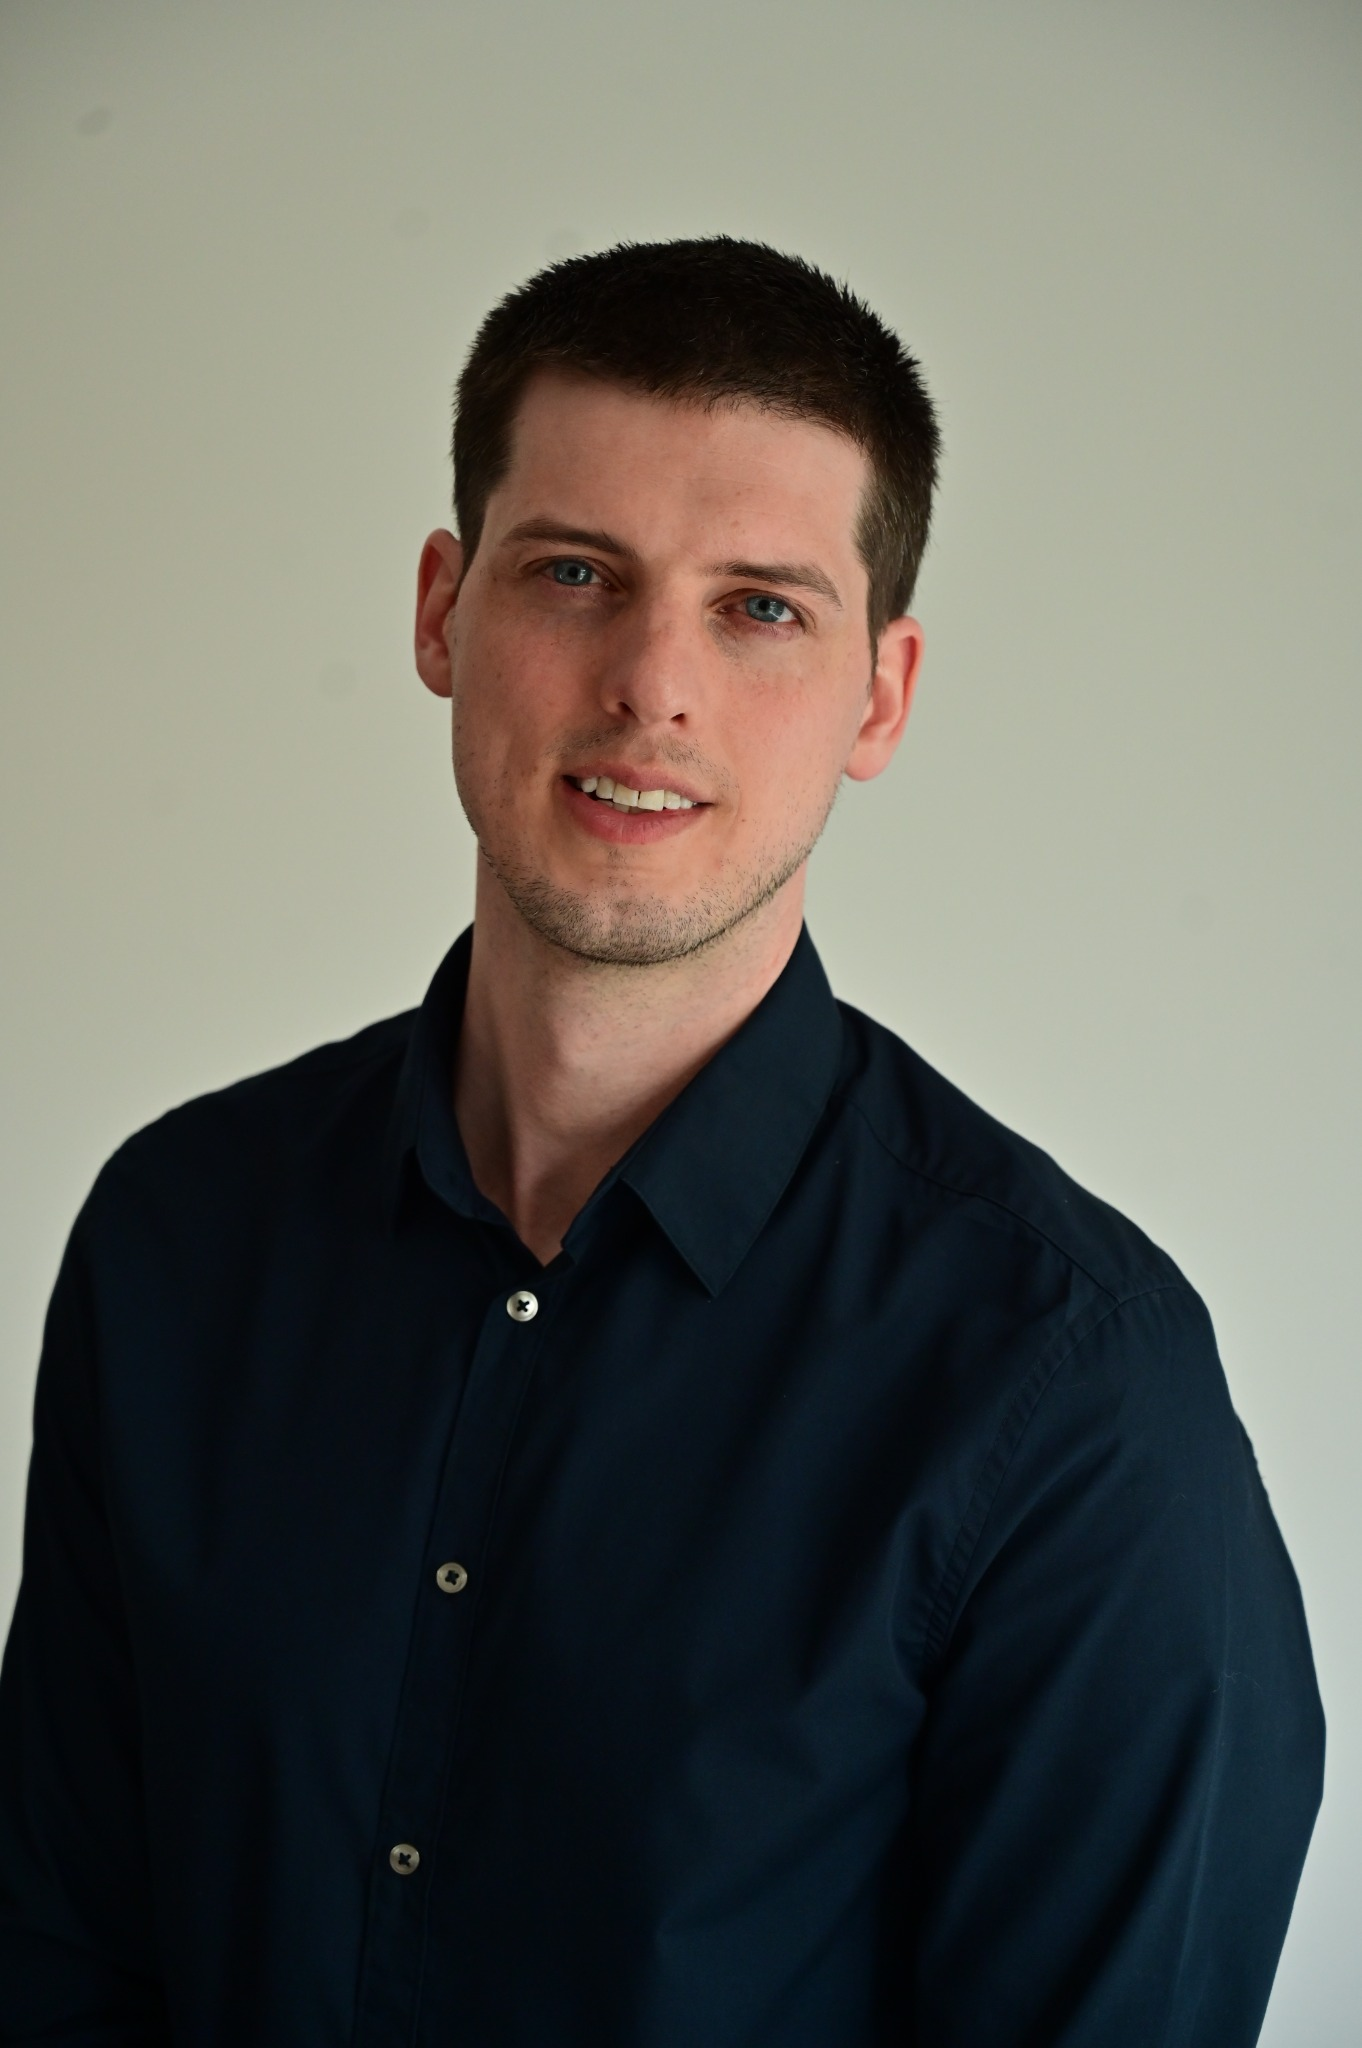
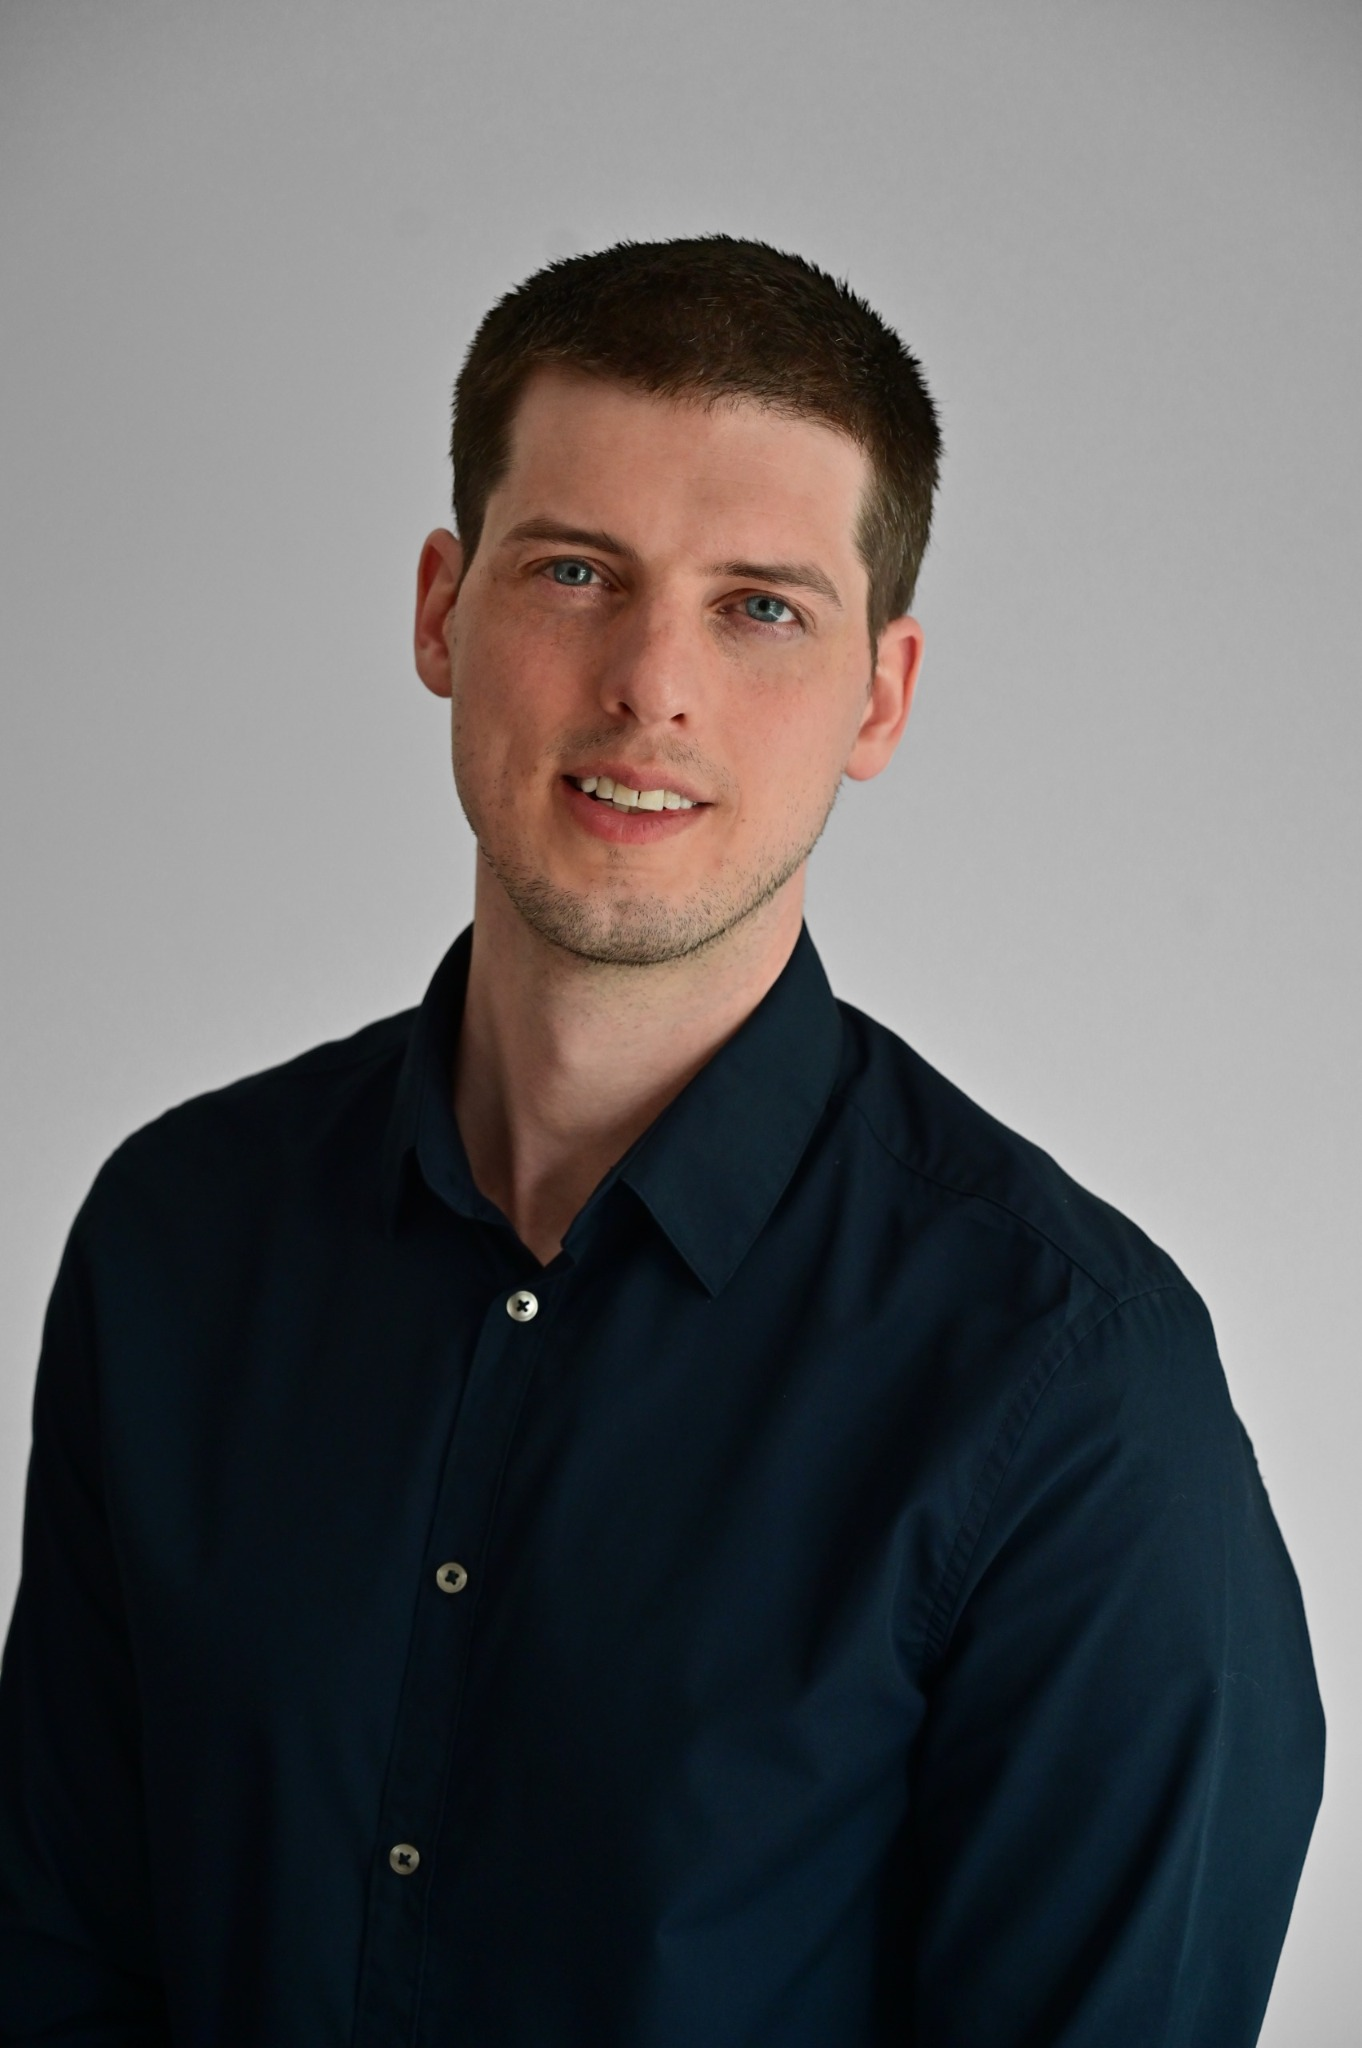
Update

diff --git a/credits.html b/credits.html
@@ -66,7 +66,7 @@
 <strong>Image:</strong> Portrait of Victor J. H. Trees.
         </p>
 <p>
-<strong>Credit:</strong> photo by Denis Trees.
+<strong>Credit:</strong> photo by Denis Trees, edited by Karel de Wit.
         </p>
 </article>
 </section><section class="section credit-section"><div class="section-header"><h2>Story figures</h2></div><article class="card credit-card"><h3>Rainbow formation diagram</h3><p><strong>Image:</strong> Adapted rainbow-formation diagram in spherical water droplets.</p><p><strong>Credit:</strong> Universal Images Group North America LLC / Alamy Stock Photo. Image ID: BCE761.</p><p><strong>Source:</strong> Alamy licensed image: A rainbow forms when sunlight is refracted by spherical water droplets in the atmosphere, producing the primary arcs of colour.</p><p><strong>Licence:</strong> Adapted and used under license from Alamy.</p><p><strong>Used for:</strong> Story page “Are there rainbows on other planets?”.</p></article></section>

diff --git a/nl/credits.html b/nl/credits.html
@@ -66,7 +66,7 @@
 <strong>Afbeelding:</strong> Portret van Victor J. H. Trees.
         </p>
 <p>
-<strong>Credit:</strong> foto door Denis Trees.
+<strong>Credit:</strong> foto door Denis Trees, bewerkt door Karel de Wit.
         </p>
 </article>
 </section><section class="section credit-section"><div class="section-header"><h2>Figuren bij verhalen</h2></div><article class="card credit-card"><h3>Schema van regenboogvorming</h3><p><strong>Afbeelding:</strong> Aangepast schema van regenboogvorming in bolvormige waterdruppels.</p><p><strong>Credit:</strong> Universal Images Group North America LLC / Alamy Stock Photo. Image ID: BCE761.</p><p><strong>Bron:</strong> Gelicenseerde afbeelding via Alamy: A rainbow forms when sunlight is refracted by spherical water droplets in the atmosphere, producing the primary arcs of colour.</p><p><strong>Licentie:</strong> Aangepast en gebruikt onder licentie van Alamy.</p><p><strong>Gebruikt voor:</strong> Verhaal “Zijn er regenbogen op andere planeten?”.</p></article></section>

diff --git a/nl/index.html b/nl/index.html
@@ -30,7 +30,7 @@
 <section class="hero">
 <div>
 <p class="date"> Atmosfeer- en planeetwetenschapper · ontwikkelaar van MONKI </p>
-<h1>Dr Victor J. H. Trees</h1>
+<h1>Dr. Victor J. H. Trees</h1>
 <p class="subtitle">
           Nederlandse atmosfeer- en planeetwetenschapper bij TU Delft en KNMI, met onderzoek naar de aarde, Venus en aardachtige exoplaneten.
         </p>

diff --git a/nl/research.html b/nl/research.html
@@ -36,7 +36,7 @@
 </section>
 <section class="research-feature card" id="polarised-radiative-transfer">
 <div class="research-feature-media"><figure class="theme-image research-feature-image"><img alt="Inleidend schema dat uitlegt hoe ongepolariseerd zonlicht na reflectie door de aarde gepolariseerd raakt" src="../img/software/polarisation-intro-slide.png"/><figcaption>Inleidend schema van Victor Trees: ongepolariseerd zonlicht raakt na reflectie door de aarde gepolariseerd. Het schema bevat een PACE-illustratie (credit: NASA/PACE) en een SpaceEngine-aardeachtergrond door Victor Trees.</figcaption></figure><figure class="theme-image research-feature-image"><img alt="Eerste HARP2-beeld boven de westkust van Zuid-Amerika met warekleurenbeeld en polarisatiebeeld" src="../img/software/harp2-cloudbow.png"/><figcaption>Eerste HARP2-beeld boven de westkust van Zuid-Amerika. In het polarisatiebeeld is een wolkenboog zichtbaar, veroorzaakt door vloeibare waterdruppels in de wolken. Credit: UMBC / HARP2 team, gebruikt met toestemming. <a href="https://umbc.edu/stories/first-light-from-harp2-on-pace/">Originele UMBC-pagina</a>.</figcaption></figure><figure class="theme-image research-feature-image"><img alt="Boekomslagen van Transfer of Polarized Light in Planetary Atmospheres en Light Scattering by Small Particles" src="../img/software/polarisation-books.jpg"/><figcaption>Klassieke referenties in lichtverstrooiing en gepolariseerd stralingstransport: Hovenier et al. en Van de Hulst.</figcaption></figure></div>
-<div class="research-feature-content"><p class="date">Methodologische basis</p><h2>Gepolariseerd stralingstransport</h2><div class="research-subsection"><h3>Wat is polarisatie van licht?</h3><p>Licht is een elektromagnetische golf. In gewoon zonlicht of sterlicht trilt het elektrische veld in veel richtingen tegelijk, waardoor het licht effectief ongepolariseerd is. Na verstrooiing door moleculen of wolkendeeltjes, of na reflectie aan een oppervlak zoals een oceaan, krijgen sommige trillingsrichtingen de voorkeur en raakt het licht gedeeltelijk gepolariseerd. De eerste figuur hierboven vat dit samen en laat ook de graad van polarisatie zien, <em>P</em>: het aandeel gepolariseerde straling ten opzichte van de totale straling.</p></div><div class="research-subsection"><h3>Waarom is dat nuttig?</h3><p>Polarisatie bevat vaak informatie die niet direct uit helderheid en kleur alleen volgt. Polarisatie is gevoelig voor de golflengte, de verlichtings- en kijkgeometrie, en voor de grootte, vorm en samenstelling van deeltjes en oppervlakken. Omdat de graad van polarisatie een relatieve grootheid is, is die bovendien minder gevoelig voor de absolute helderheid van het invallende zonlicht en voor verschillende instrumentele effecten.</p></div><div class="research-subsection"><h3>Wat kun je ermee zien?</h3><p>Het HARP2-beeld hierboven laat die meerwaarde direct zien. In het RGB-paneel zie je vooral het wolkenveld voor de westkust van Zuid-Amerika, terwijl in het polarisatiepaneel een duidelijke wolkenboog zichtbaar wordt. Zo'n wolkenboog ontstaat door bijna bolvormige waterdruppels en laat dus zien dat dit wolken van vloeibaar water zijn. Uit de details van dat signaal kun je vervolgens informatie halen over druppelgrootte en wolkenmicrofysica. Hetzelfde basisidee werkt ook buiten de aarde. Een klassiek voorbeeld is Venus: Hansen en Hovenier (1974) gebruikten polarisatiemetingen van Venus als geheel, bij verschillende fasehoeken, om te laten zien dat de belangrijkste Venuswolken uit zwavelzuurdruppels bestaan.</p></div><div class="research-subsection"><h3>Waarom simuleren?</h3><p>Om polarisatiemetingen goed te kunnen gebruiken, moet je de waarnemingen terugkoppelen naar de onderliggende fysica. Gesimuleerd gepolariseerd stralingstransport beschrijft hoe licht verandert terwijl het in een atmosfeer wordt verstrooid, geabsorbeerd en gereflecteerd. Zulke simulaties zijn nodig om satelliet- en telescoopmetingen te interpreteren, om toekomstige instrumenten te ontwerpen en te testen, en om te verkennen hoe wolken, oceanen, bewoonbaarheid en mogelijke sporen van leven zichtbaar kunnen worden in gereflecteerd licht. MONKI is voor dat doel ontwikkeld, ook voor atmosferen met driedimensionale wolkenstructuren.</p></div><div class="callout research-history-callout"><h3>Nederlandse wetenschappelijke context</h3><p>Dit werk bouwt voort op een sterke Nederlandse traditie in optica, lichtverstrooiing en polarimetrie. Christiaan Huygens (1629-1695) hielp de golfbeschrijving van licht te vestigen en bestudeerde dubbele breking. Prof. dr. Marcel Minnaert (1893-1970) verbond optica, astronomie en verschijnselen in de atmosfeer. Prof. dr. Henk van de Hulst (1918-2000) leverde fundamentele bijdragen aan de theorie van lichtverstrooiing door kleine deeltjes. Prof. dr. Joop Hovenier (1936-2024) ontwikkelde een groot deel van de moderne theorie van gepolariseerd stralingstransport in planeetatmosferen.</p><p>Meer recent leverden dr. Johan de Haan en dr. Piet Stammes belangrijke bijdragen aan polarimetrie en stralingstransport bij het KNMI. dr. Daphne Stam legde belangrijke grondslagen voor het gebruik van polarimetrie in aardobservatie, planeetwetenschap en exoplaneetonderzoek, en begeleidde mijn masterscriptie over exoplaneetpolarimetrie. Ook dr. Ping Wang begeleidde mijn promotiewerk bij het KNMI. Een groot deel van mijn eigen begrip van polarisatie komt uit Hoveniers <em>Transfer of Polarized Light in Planetary Atmospheres</em>, samen met het klassieke overzichtsartikel van Hansen en Travis (1974).</p></div><div class="link-list"><a href="software.html">Software en methoden</a><a href="publications.html">MONKI-paper</a><a href="https://umbc.edu/stories/first-light-from-harp2-on-pace/">UMBC HARP2-pagina</a><a href="https://link.springer.com/book/10.1007/978-1-4020-2856-4">Boek van Hovenier et al.</a><a href="https://www.giss.nasa.gov/pubs/abs/ha09500o.html">Hansen en Travis (1974)</a><a href="https://journals.ametsoc.org/view/journals/atsc/31/4/1520-0469_1974_031_1137_iotpov_2_0_co_2.xml">Hansen en Hovenier (1974)</a></div></div>
+<div class="research-feature-content"><p class="date">Methodologische basis</p><h2>Gepolariseerd stralingstransport</h2><div class="research-subsection"><h3>Wat is polarisatie van licht?</h3><p>Licht is een elektromagnetische golf. In gewoon zonlicht of sterlicht trilt het elektrische veld in veel richtingen tegelijk, waardoor het licht effectief ongepolariseerd is. Na verstrooiing door moleculen of wolkendeeltjes, of na reflectie aan een oppervlak zoals een oceaan, krijgen sommige trillingsrichtingen de voorkeur en raakt het licht gedeeltelijk gepolariseerd. De eerste figuur hierboven vat dit samen en laat ook de graad van polarisatie zien, <em>P</em>: het aandeel gepolariseerde straling ten opzichte van de totale straling.</p></div><div class="research-subsection"><h3>Waarom is dat nuttig?</h3><p>Polarisatie bevat vaak informatie die niet direct uit helderheid en kleur alleen volgt. Polarisatie is gevoelig voor de golflengte, de verlichtings- en kijkgeometrie, en voor de grootte, vorm en samenstelling van deeltjes en oppervlakken. Omdat de graad van polarisatie een relatieve grootheid is, is die bovendien minder gevoelig voor de absolute helderheid van het invallende zonlicht en voor verschillende instrumentele effecten.</p></div><div class="research-subsection"><h3>Wat kun je ermee zien?</h3><p>Het HARP2-beeld hierboven laat die meerwaarde direct zien. In het RGB-paneel zie je vooral het wolkenveld voor de westkust van Zuid-Amerika, terwijl in het polarisatiepaneel een duidelijke wolkenboog zichtbaar wordt. Zo'n wolkenboog ontstaat door bijna bolvormige waterdruppels en laat dus zien dat dit wolken van vloeibaar water zijn. Uit de details van dat signaal kun je vervolgens informatie halen over druppelgrootte en wolkenmicrofysica. Hetzelfde basisidee werkt ook buiten de aarde. Een klassiek voorbeeld is Venus: Hansen en Hovenier (1974) gebruikten polarisatiemetingen van Venus als geheel, bij verschillende fasehoeken, om te laten zien dat de belangrijkste Venuswolken uit zwavelzuurdruppels bestaan.</p></div><div class="research-subsection"><h3>Waarom simuleren?</h3><p>Om polarisatiemetingen goed te kunnen gebruiken, moet je de waarnemingen terugkoppelen naar de onderliggende fysica. Gesimuleerd gepolariseerd stralingstransport beschrijft hoe licht verandert terwijl het in een atmosfeer wordt verstrooid, geabsorbeerd en gereflecteerd. Zulke simulaties zijn nodig om satelliet- en telescoopmetingen te interpreteren, om toekomstige instrumenten te ontwerpen en te testen, en om te verkennen hoe wolken, oceanen, bewoonbaarheid en mogelijke sporen van leven zichtbaar kunnen worden in gereflecteerd licht. MONKI is voor dat doel ontwikkeld, ook voor atmosferen met driedimensionale wolkenstructuren.</p></div><div class="callout research-history-callout"><h3>Nederlandse wetenschappelijke context</h3><p>Dit werk bouwt voort op een sterke Nederlandse traditie in optica, lichtverstrooiing en polarimetrie. Christiaan Huygens (1629-1695) hielp de golfbeschrijving van licht te vestigen en bestudeerde dubbele breking. Prof. dr. Marcel Minnaert (1893-1970) verbond optica, astronomie en verschijnselen in de atmosfeer. Prof. dr. Henk van de Hulst (1918-2000) leverde fundamentele bijdragen aan de theorie van lichtverstrooiing door kleine deeltjes. Prof. dr. Joop Hovenier (1936-2024) ontwikkelde een groot deel van de moderne theorie van gepolariseerd stralingstransport in planeetatmosferen.</p><p>Meer recent leverden dr. Johan de Haan en dr. Piet Stammes belangrijke bijdragen aan polarimetrie en stralingstransport bij het KNMI. Dr. Daphne Stam legde belangrijke grondslagen voor het gebruik van polarimetrie in aardobservatie, planeetwetenschap en exoplaneetonderzoek, en begeleidde mijn masterscriptie over exoplaneetpolarimetrie. Ook dr. Ping Wang begeleidde mijn promotiewerk bij het KNMI. Een groot deel van mijn eigen begrip van polarisatie komt uit Hoveniers <em>Transfer of Polarized Light in Planetary Atmospheres</em>, samen met het klassieke overzichtsartikel van Hansen en Travis (1974).</p></div><div class="link-list"><a href="software.html">Software en methoden</a><a href="publications.html">MONKI-paper</a><a href="https://umbc.edu/stories/first-light-from-harp2-on-pace/">UMBC HARP2-pagina</a><a href="https://link.springer.com/book/10.1007/978-1-4020-2856-4">Boek van Hovenier et al.</a><a href="https://www.giss.nasa.gov/pubs/abs/ha09500o.html">Hansen en Travis (1974)</a><a href="https://journals.ametsoc.org/view/journals/atsc/31/4/1520-0469_1974_031_1137_iotpov_2_0_co_2.xml">Hansen en Hovenier (1974)</a></div></div>
 </section>
 <section class="section">
 <div class="section-header">

diff --git a/story-rainbows-planets.html b/story-rainbows-planets.html
@@ -43,7 +43,7 @@
 <p>The limiting factor is direct light. A familiar rainbow is seen when falling droplets are illuminated directly and the observer looks in the right direction. On Titan, visible sunlight is strongly weakened and scattered by the dense haze. On Venus, an observer trying to see such rain would also be below an opaque cloud deck. These conditions make a familiar rainbow in the sky unlikely, even though suitable liquid droplets are present.</p>
 <h2>Rainbows on exoplanets</h2>
 <p>For exoplanets, the same physics applies. It is entirely possible that planets around other stars have rainbows, especially if they have liquid droplets that are directly illuminated by their host star. The colours could differ from those on Earth, for example if the star is hotter and bluer than the Sun, or cooler and redder.</p>
-<p>Observing such rainbows would be much harder. Rainbows are local features: they occur only where falling droplets, direct starlight, and the observer have the right geometry. Even with the new telescopes expected in the near future, we will not spatially resolve an Earth-like exoplanet well enough to see such local arcs on its disk. The whole illuminated planet is measured as one tiny point of light. In addition, rain would often occur below clouds, so from space the raindrops would be partly or completely hidden by the cloud deck above them.</p>
+<p>Observing such rainbows would be much harder. Rainbows are local features: they occur only where falling droplets, direct starlight, and the observer have the right geometry. Even with the next generations of telescopes, we will not spatially resolve an Earth-like exoplanet well enough to see such local arcs on its disk. The whole illuminated planet is measured as one tiny point of light. In addition, rain would often occur below clouds, so from space the raindrops would be partly or completely hidden by the cloud deck above them.</p>
 <h2>Searching for cloudbows on exoplanets</h2>
 <p>Cloudbows are more promising than rainbows for exoplanet observations. A cloudbow is produced by droplets near the tops of clouds. Those droplets can be directly illuminated by the host star and visible from space. The droplets are much smaller than raindrops, so the colour bands overlap strongly and the cloudbow appears white. With polarisation filters, the weak colour separation can become easier to detect.</p>
 <p>For exoplanets, we would still not see a bow-shaped arc. Instead, we would search for a peak in the polarisation signal of reflected starlight at a particular phase angle as the planet moves along its orbit. The phase angle is the angle between the observer, the planet, and the host star. The precise phase angle where the peak occurs, and the shape of the peak, can tell us about the type of liquid in the clouds and the size of the droplets. We know from planets in our own Solar System that this method can work: already in 1974, polarisation measurements of Venus as a whole planet, at different phase angles, showed that its clouds are made of tiny sulfuric-acid droplets.</p>